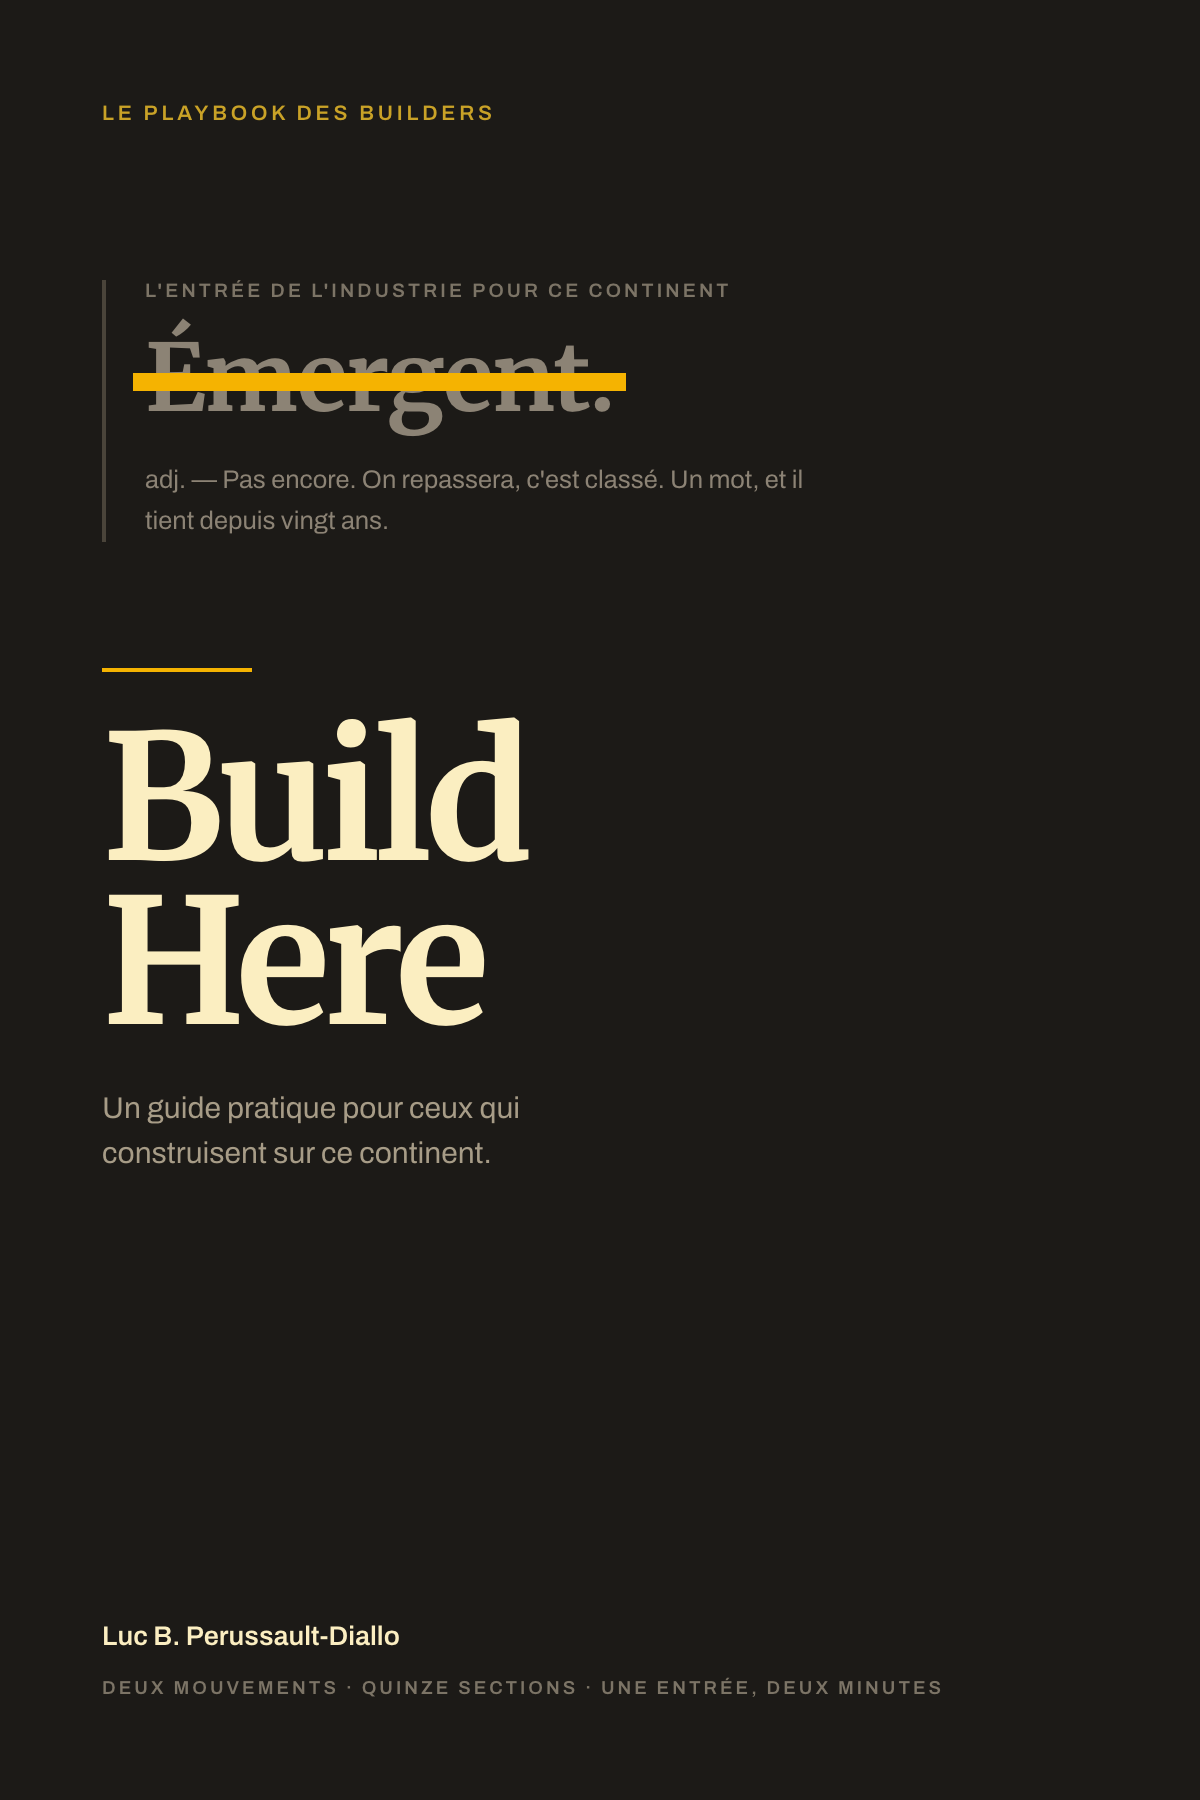
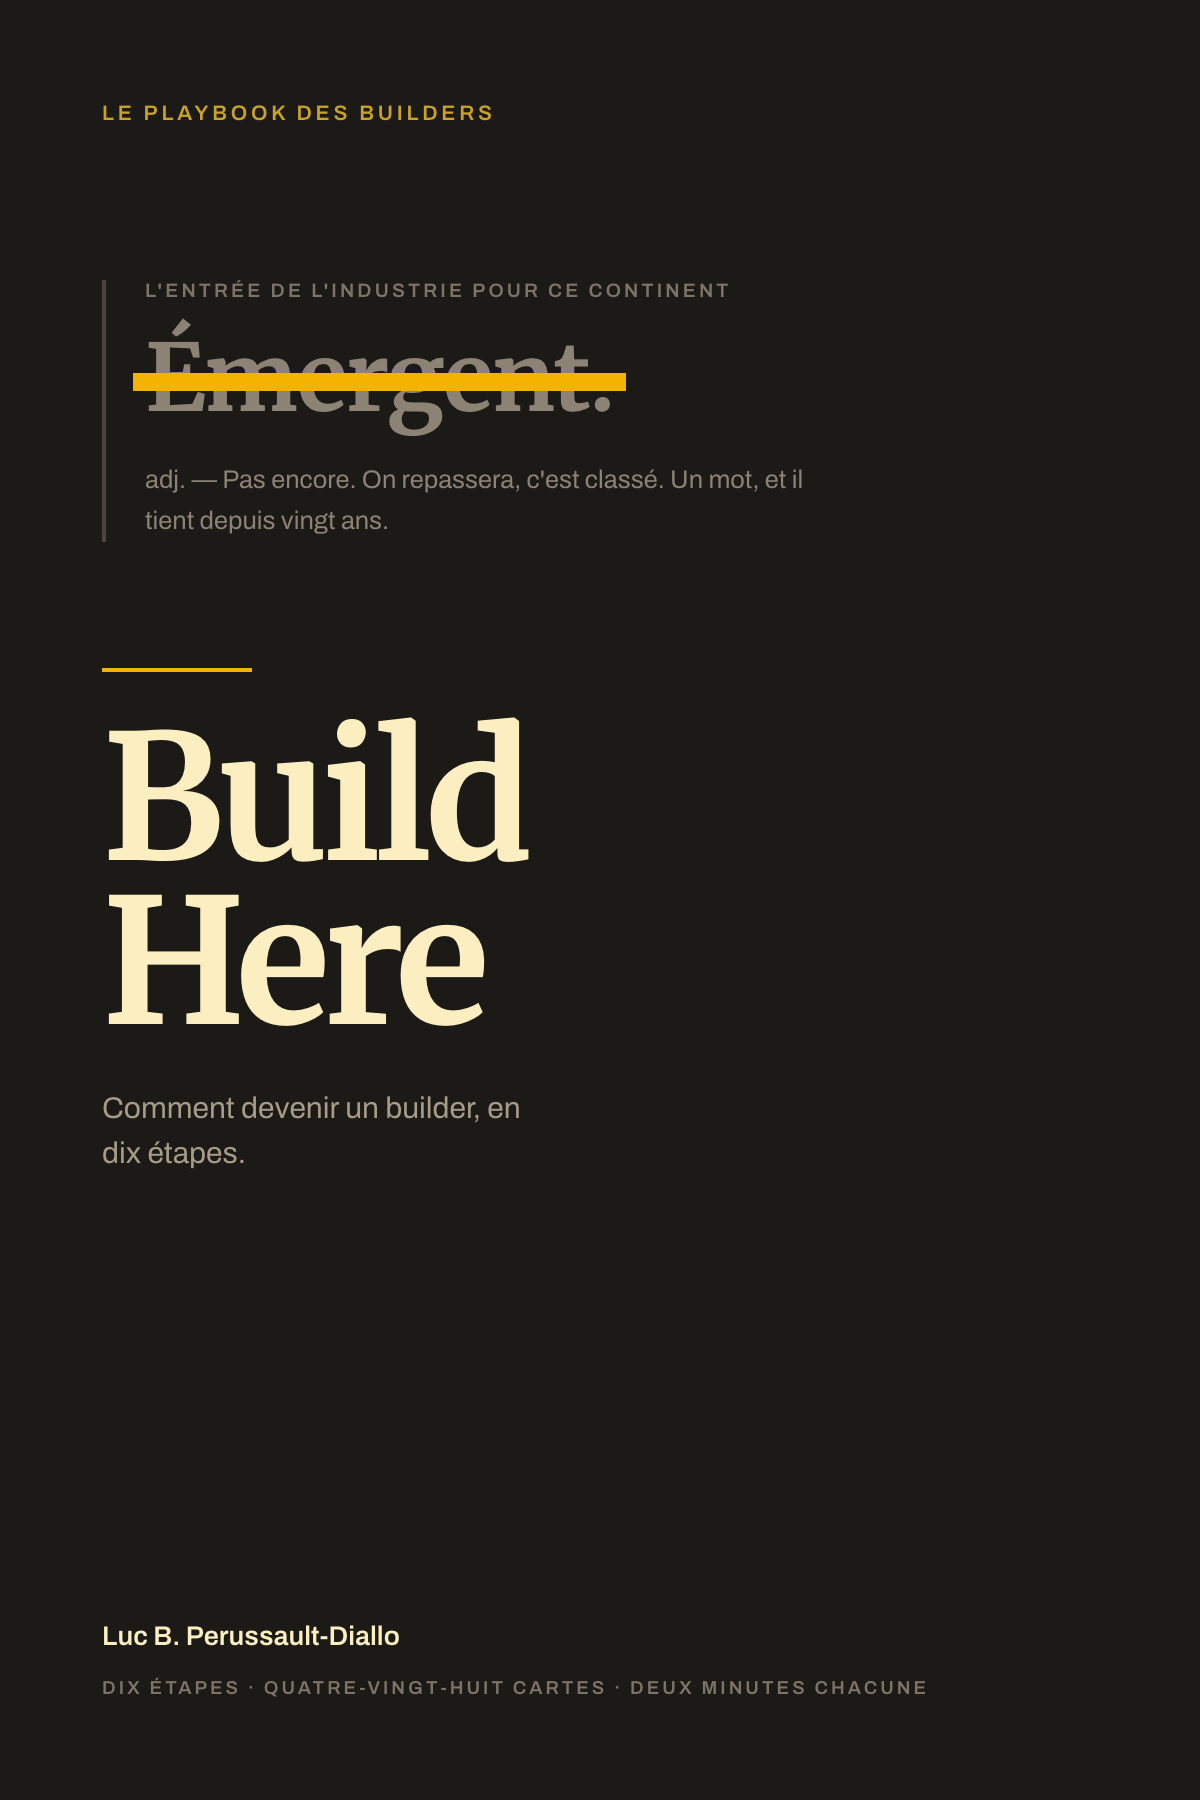
fix: les restes de l'ancien livre
Deux marques de section dessinées pour les étapes qui n'en avaient pas.
Les systèmes : trois répétitions qui deviennent une seule chose. Le levier :
une charge lourde soulevée par un poids léger. Elles remplacent produit.svg
et distribution.svg, empruntées faute de mieux.

llms.txt comptait les sections avec section_number, qui n'existe plus : le
compteur affichait zéro. Il dit maintenant dix étapes et 88 cartes.

La couverture et l'image de partage sont régénérées. Leur sous-titre disait
encore « un guide pratique pour ceux qui construisent sur ce continent ».

Le reste est de la prose périmée : le README décrivait quinze sections en
deux mouvements, six cartes de la dernière étape parlaient encore « de ce
mouvement », la page d'atelier faisait choisir une section, et les annexes
citaient soixante-huit cartes et une règle d'ancrage continentale.

Les statistiques de longueur du linter sont recalculées sur les 88 cartes :
310 à 597 mots, médiane 448, p90 528.

diff --git a/assets/javascripts/commentaires.js b/assets/javascripts/commentaires.js
@@ -119,7 +119,7 @@
     const select = champs.querySelector('[name="indicatif"]');
 
     // La liste est servie une fois pour tout le site plutot que rendue dans
-    // chaque page : 187 options sur 68 entrees pesaient onze kilo-octets par
+    // chaque page : 187 options sur 88 cartes pesaient onze kilo-octets par
     // page, pour un champ que presque personne ne remplit. Sans JavaScript le
     // select reste vide, et la personne tape son numero en entier, ce que le
     // serveur accepte.

diff --git a/assets/javascripts/contribuer.js b/assets/javascripts/contribuer.js
@@ -84,7 +84,7 @@
     const select = champs.querySelector('[name="indicatif"]');
 
     // La liste est servie une fois pour tout le site plutot que rendue dans
-    // chaque page : 187 options sur 68 entrees pesaient onze kilo-octets par
+    // chaque page : 187 options sur 88 cartes pesaient onze kilo-octets par
     // page, pour un champ que presque personne ne remplit. Sans JavaScript le
     // select reste vide, et la personne tape son numero en entier, ce que le
     // serveur accepte.

diff --git a/_cover/og.html b/_cover/og.html
@@ -27,7 +27,7 @@
     <div class="kick">Le playbook des builders</div>
     <div class="rule"></div>
     <div class="title">Build<br>Here</div>
-    <div class="sub">Un guide pratique pour ceux qui construisent sur ce continent.</div>
+    <div class="sub">Comment devenir un builder, en dix&nbsp;étapes.</div>
     <div class="author">Luc B. Perussault-Diallo</div>
   </div>
   <div class="right">

diff --git a/_cover/cover.html b/_cover/cover.html
@@ -33,7 +33,7 @@
     </div>
     <div class="rule"></div>
     <div class="title">Build<br>Here</div>
-    <div class="sub">Un guide pratique pour ceux qui construisent sur ce continent.</div>
+    <div class="sub">Comment devenir un builder, en dix&nbsp;étapes.</div>
   </div>
   <div>
     <div class="author">Luc B. Perussault-Diallo</div>

diff --git a/README.md b/README.md
@@ -27,30 +27,22 @@ Les deux sont retirés automatiquement après chaque déploiement du site, par [
 
 Une introduction, un mode d'emploi (*Comment lire ce livre*), **dix étapes** et cinq annexes.
 
-Le premier mouvement te rend meilleur. Le second rend ton travail visible. Ce sont deux problèmes différents, et le second est le plus difficile des deux.
+Dix étapes, dans cet ordre, et chacune s'appuie sur les précédentes.
 
-### Devenir meilleur
+1. **L'état d'esprit** - je rends les choses meilleures
+2. **Le métier** - je suis excellent à quelque chose
+3. **L'autonomie** - donne-moi le problème, pas la procédure
+4. **La compréhension** - je comprends toute l'entreprise
+5. **La livraison** - je mets des choses dans le réel
+6. **L'ownership** - je réponds du résultat
+7. **Les systèmes** - je rends la prochaine fois plus facile
+8. **Le levier** - je multiplie mon impact
+9. **Le leadership** - je fabrique des builders autour de moi
+10. **La référence** - on apprend de ma façon de travailler
 
-- **Curiosité** - elle est facturable, et son manque coûte aussi plus cher
-- **Ego et honnêteté intellectuelle** - avoir tort ne coûte rien, le rester coûte cher
-- **Hiérarchie** - respecte l'ancien, conteste l'idée
-- **Ownership** - n'apporte pas la tâche, apporte le problème
-- **Produit** - le ticket n'est pas le travail
-- **Engineering** - faire simple est une performance technique
-- **Exécution** - shipper crée de l'information
-- **Apprentissage** - ton meilleur professeur ne travaille pas ici
-- **Leadership** - on fabrique l'environnement dont on se plaint
-- **Technologie et business** - ce qu'on sait construire décide ce qu'on peut vendre
-- **Client** - parle à la personne qui a le problème
-- **Distribution** - un produit que personne ne trouve n'existe pas
+Les huit premières rendent meilleur. Les deux dernières sont celles que presque personne ne monte : rien dans le fait de bien travailler ne produit une trace, il faut le décider.
 
-### Arrêter de le faire en silence
-
-- **Laisser une trace** - une explication a une audience de un, une trace a une audience que tu ne choisis pas
-- **Se faire trouver** - écrit et invisible, c'est un progrès d'exactement zéro
-- **Devenir une référence** - ça arrive à quelqu'un d'autre, ailleurs, sans toi
-
-Puis une conclusion : laisser quelque chose que le suivant pourra trouver.
+Puis une conclusion : un builder en onze lignes, et laisser quelque chose que le suivant pourra trouver.
 
 Les annexes donnent le format d'une carte, les douze tests qu'elle doit survivre, et seize titres publiés entre 1954 et 2018 où tout ça était déjà écrit.
 

diff --git a/_chapters/a1-comment-ecrire-une-entree.md b/_chapters/a1-comment-ecrire-une-entree.md
@@ -169,9 +169,9 @@ Sans la paire, le livre devient une liste d'exigences dirigées vers le bas.
 
 ## L'ancrage
 
-Ne limite pas les détails de terrain. Ce livre part d'un lieu et d'une expérience : le lecteur doit pouvoir les reconnaître. Sers-toi du détail de terrain : l'environnement de staging partagé, la connexion comptée, le fournisseur qui facture en dollars contre un revenu qui arrive en monnaie locale, la ligne de support à huit fuseaux, le senior qui est la seule personne du pays à avoir fait tourner ça en production.
+Ne limite pas les détails de terrain. Une carte tient parce qu'un lecteur y reconnaît une semaine qu'il a vécue, et ça se joue dans le détail : l'environnement de staging partagé, la connexion comptée, le fournisseur qui facture dans une monnaie que tu n'encaisses pas, la ligne de support à huit fuseaux, le senior qui est le seul de la boîte à avoir fait tourner ça en production.
 
-La seule règle qui reste. Le détail est dans une scène, et le livre n'explique jamais le continent à ceux qui y vivent.
+La seule règle qui reste. Le détail est dans une scène, et il ne sert jamais à expliquer un endroit à ceux qui y vivent.
 
 ---
 
@@ -205,7 +205,7 @@ Ces mêmes cartes portent l'autre moitié, à savoir la façon dont le titre se 
 
 300 à 500 mots par carte. Jusqu'à 550 quand elle porte un réflexe défendable ou une mise en garde contre un détournement du principe, puisque ce sont deux paragraphes en plus et qu'aucun des deux n'est du remplissage.
 
-Ces chiffres décrivent les soixante-huit cartes existantes, médiane 434. Ils te disent où tu te situes par rapport au livre, pas où tu dois être. Le vrai plafond est le test 3, et il se lit autrement : une carte qui demande plus de deux minutes n'est pas mauvaise, elle est moins lue.
+Ces chiffres décrivent les quatre-vingt-huit cartes existantes, médiane 448. Ils te disent où tu te situes par rapport au livre, pas où tu dois être. Le vrai plafond est le test 3, et il se lit autrement : une carte qui demande plus de deux minutes n'est pas mauvaise, elle est moins lue.
 
 Le bloc « Depuis ton siège » ne compte pas dans ces mots. Son budget est le sien, six lignes de cent caractères au plus, et la règle est dans le bloc.
 

diff --git a/_chapters/10-04-reponds-a-la-question-en-public.md b/_chapters/10-04-reponds-a-la-question-en-public.md
@@ -11,7 +11,7 @@ categories:
   - visibilite
   - transmission
 seo:
-  description: "C'est la seule action de ce mouvement qui ne demande presque aucun travail supplémentaire. Tu allais écrire la réponse de toute façon."
+  description: "C'est la seule action de cette étape qui ne demande presque aucun travail supplémentaire. Tu allais écrire la réponse de toute façon."
   keywords: "build here, trace, visibilite, tech afrique, builder, question, public"
 redirect_from:
   - /chapters/14-04-reponds-a-la-question-en-public.html
@@ -29,7 +29,7 @@ Une personne a la réponse. C'est fini.
 
 ## Pourquoi
 
-C'est la seule action de ce mouvement qui ne demande presque aucun travail supplémentaire. Tu allais écrire la réponse de toute façon. La seule décision est l'endroit où tu la poses. Une réponse privée a un lecteur, aujourd'hui. La même réponse publique en a un aujourd'hui et un nombre inconnu ensuite, sur des années, sans que tu aies rien à faire de plus. Il n'existe aucun autre endroit du livre où le rapport entre l'effort et la portée est aussi déséquilibré, et c'est pour ça que cette carte est la plus facile à appliquer cette semaine.
+C'est la seule action de cette étape qui ne demande presque aucun travail supplémentaire. Tu allais écrire la réponse de toute façon. La seule décision est l'endroit où tu la poses. Une réponse privée a un lecteur, aujourd'hui. La même réponse publique en a un aujourd'hui et un nombre inconnu ensuite, sur des années, sans que tu aies rien à faire de plus. Il n'existe aucun autre endroit du livre où le rapport entre l'effort et la portée est aussi déséquilibré, et c'est pour ça que cette carte est la plus facile à appliquer cette semaine.
 
 Regarde aussi pourquoi la question t'est arrivée. Elle t'est arrivée parce que tu es la personne à portée, pas parce que tu es la seule à savoir. Tant que la réponse reste dans tes messages, tu restes la porte, et *Être bloqué est une décision* dit déjà ce que ça coûte à l'équipe qui n'a jamais dessiné la carte. Une fois publiée, la réponse est accessible même quand tu n'es pas disponible.
 

diff --git a/_chapters/00-faire-tourner-ca-dans-ton-equipe.md b/_chapters/00-faire-tourner-ca-dans-ton-equipe.md
@@ -53,23 +53,23 @@ La décision n'a pas besoin d'être ambitieuse.
 
 ---
 
-## Choisir la section
+## Choisir l'étape
 
-Une section, pas le livre. Prends celle qui correspond à ce qui vous agace ce trimestre et fais ses cartes dans l'ordre.
+Une étape, pas le livre. Prends celle qui correspond à ce qui vous agace ce trimestre et fais ses cartes dans l'ordre.
 
 → **Curiosité**, si les gens exécutent sans demander pourquoi.
 → **Produit**, si les sprints se terminent et que rien ne change pour personne.
 → **Exécution**, si tout arrive en retard et que personne ne sait où le temps est passé.
 → **Client**, si les décisions se prennent sur ce que quelqu'un a rapporté d'une réunion.
-→ **Laisser une trace**, si l'équipe est bonne et que personne à l'extérieur ne le sait.
+→ **La référence**, si l'équipe est bonne et que personne à l'extérieur ne le sait.
 
-Six semaines, puis vous arrêtez. Une section de plus au trimestre suivant si ça a servi. Un rituel qui dure toute l'année finit par être un point d'agenda que plus personne n'ose supprimer.
+Six semaines, puis vous arrêtez. Une étape de plus au trimestre suivant si ça a servi. Un rituel qui dure toute l'année finit par être un point d'agenda que plus personne n'ose supprimer.
 
 ---
 
 ## Selon ta place dans l'équipe
 
-**Tu as commencé l'an dernier.** Ne mène pas la séance. Prends la ligne d'un siège que tu ne comprends pas encore, et demande à celui qui l'occupe de raconter une fois où ça lui est arrivé. Tu apprendras plus dans sa réponse que dans les douze sections.
+**Tu as commencé l'an dernier.** Ne mène pas la séance. Prends la ligne d'un siège que tu ne comprends pas encore, et demande à celui qui l'occupe de raconter une fois où ça lui est arrivé. Tu apprendras plus dans sa réponse que dans les dix étapes.
 
 **Tu construis depuis six ans.** C'est toi qui mènes, et ton travail est de parler en dernier. La moitié de ce livre, tu la sais déjà, apprise sur un truc qui a cassé devant un client. Fais circuler la carte au lieu de refaire le discours pour la quarantième fois.
 

diff --git a/_chapters/10-06-le-quatrieme-mois.md b/_chapters/10-06-le-quatrieme-mois.md
@@ -33,7 +33,7 @@ Une trace n'est pas lue le jour où tu la publies. Elle est lue le jour où quel
 
 Je ne peux pas te dire quand ça bascule. Je suis dedans, ce livre est ma première tentative sérieuse, et quelqu'un qui te donne un chiffre ici te vend une méthode.
 
-Il y a un autre cas, et il faut le séparer du premier, parce que quand on publie, on ne voit pas la différence entre les deux. Publier cinq choses dont personne ne peut se servir produit le même silence que publier cinq bonnes choses trop tôt. Le quatrième mois est le bon moment pour trancher, et le test est celui du mouvement. Est-ce qu'un inconnu, avec un problème précis, peut se servir de ce que tu as écrit ? Si oui, le silence est normal et il n'y a rien à changer. Si non, le problème n'a jamais été la patience, et six mois de plus au même régime ne le régleront pas.
+Il y a un autre cas, et il faut le séparer du premier, parce que quand on publie, on ne voit pas la différence entre les deux. Publier cinq choses dont personne ne peut se servir produit le même silence que publier cinq bonnes choses trop tôt. Le quatrième mois est le bon moment pour trancher, et le test est celui de cette étape. Est-ce qu'un inconnu, avec un problème précis, peut se servir de ce que tu as écrit ? Si oui, le silence est normal et il n'y a rien à changer. Si non, le problème n'a jamais été la patience, et six mois de plus au même régime ne le régleront pas.
 
 C'est aussi pour ça que "sois patient" est une phrase dangereuse à recevoir et pire à donner. Elle est vraie dans un cas sur deux, et dans l'autre elle sert exactement à empêcher la correction.
 

diff --git a/_chapters/10-09-une-reference-nest-pas-une-personnalite.md b/_chapters/10-09-une-reference-nest-pas-une-personnalite.md
@@ -33,7 +33,7 @@ Une notoriété fondée sur ta seule présence s'efface quand tu cesses de te mo
 
 Le test tient en une question. Qu'est-ce qui reste si la personne cesse de publier six mois ? Une personnalité disparaît de la conversation. Une référence continue d'être citée par des gens qui ne savent pas si elle est encore active.
 
-Ce que ça change pour toi est la meilleure nouvelle de ce mouvement et elle est rarement dite. Tu n'as pas besoin d'être présent, régulier, sympathique, ni d'avoir un avis sur ce qui vient de se passer. En contrepartie, cela prend du temps. Une personnalité se construit en six mois. Une référence prend des années et rien ne compense ça. Si tu as besoin d'un résultat ce trimestre, ce n'est pas le bon chemin et il vaut mieux le savoir maintenant.
+Ce que ça change pour toi est la meilleure nouvelle de cette étape et elle est rarement dite. Tu n'as pas besoin d'être présent, régulier, sympathique, ni d'avoir un avis sur ce qui vient de se passer. En contrepartie, cela prend du temps. Une personnalité se construit en six mois. Une référence prend des années et rien ne compense ça. Si tu as besoin d'un résultat ce trimestre, ce n'est pas le bon chemin et il vaut mieux le savoir maintenant.
 
 Et quand ça marche, tu ne le verras pas. Quelqu'un calera son travail sur le tien sans te le dire, ne te citera jamais, et repartira. C'est le seul résultat qui compte et il est invisible, ce qui est très exactement l'invisibilité décrite au début du livre, sauf que cette fois le travail circule.
 

diff --git a/_chapters/10-01-mets-ton-nom-dessus.md b/_chapters/10-01-mets-ton-nom-dessus.md
@@ -37,7 +37,7 @@ Regarde qui perd à ce silence. Ce n'est pas seulement toi. C'est aussi le déve
 
 Reste une objection sérieuse. Le faire mal est exactement ce que tu voulais éviter, et il existe toute une industrie de ça. La différence tient à ce que tu publies, pas à la discrétion avec laquelle tu le fais. Un artefact est une chose dont quelqu'un d'autre peut se servir. Le postmortem avec la chronologie dedans. Le tableau des motifs de contact avec leurs proportions. Les écrans écartés avec la raison. La bibliothèque. La grille d'entretien qui montre ce qu'elle mesure. Un avis sur l'avenir de la tech africaine n'est pas un artefact, et ceux qui en produisent sont déjà en nombre suffisant. Le test est simple et il ne flatte personne. Est-ce qu'un inconnu peut en tirer quelque chose sans savoir qui tu es ?
 
-Tu auras l'impression de faire ta propre publicité les trois premières fois. Puis quelqu'un que tu n'as jamais rencontré te citera ton propre postmortem, et c'est à ça que servaient les douze sections précédentes.
+Tu auras l'impression de faire ta propre publicité les trois premières fois. Puis quelqu'un que tu n'as jamais rencontré te citera ton propre postmortem, et c'est à ça que servaient les neuf étapes précédentes.
 
 ## À essayer
 

diff --git a/_chapters/a2-les-douze-tests.md b/_chapters/a2-les-douze-tests.md
@@ -54,9 +54,9 @@ La question de fin doit produire des réponses différentes selon les personnes.
 
 Deux questions auxquelles il faut pouvoir répondre oui.
 
-Est-ce qu'un builder à Abidjan, Lagos, Nairobi ou Dakar reconnaîtrait sa propre semaine dedans ? Est-ce qu'un builder à Berlin reconnaîtrait la sienne ?
+Est-ce qu'un builder là où tu travailles reconnaîtrait sa propre semaine dedans ? Est-ce qu'un builder à l'autre bout du monde reconnaîtrait la sienne ?
 
-Le continent fournit les situations et les enjeux. Le principe doit survivre au déplacement. Un seul oui donne une carte plus faible. Zéro donne une carte qui ne devrait pas sortir.
+Ton terrain fournit les situations. Le principe, lui, doit survivre au déplacement. Un seul oui donne une carte plus faible. Zéro donne une carte qui ne devrait pas sortir.
 
 **9. Est-ce qu'on attaque un comportement plutôt qu'un groupe de personnes ?**
 
